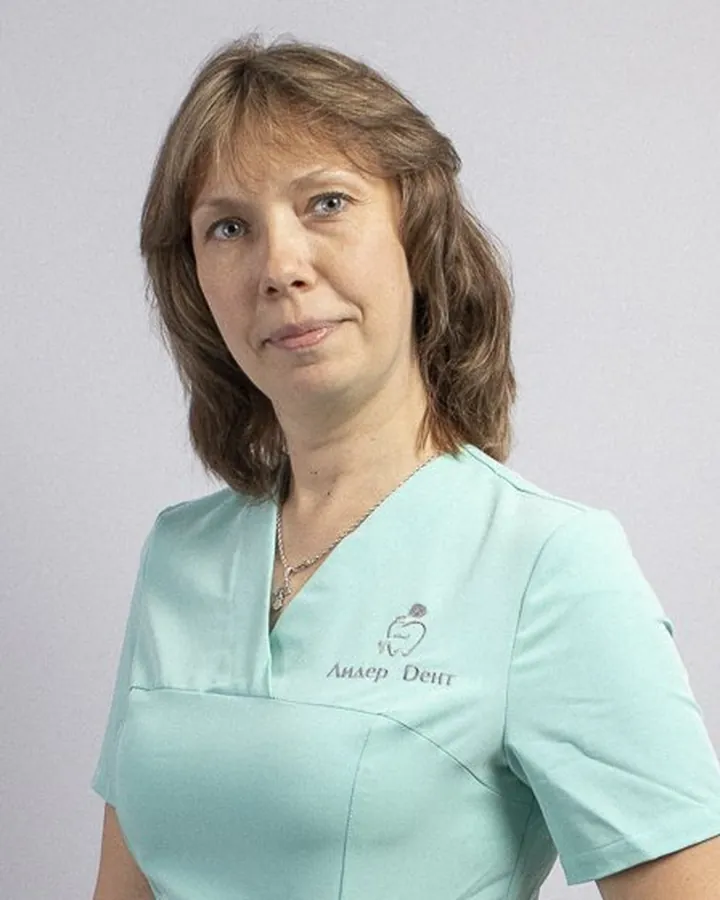
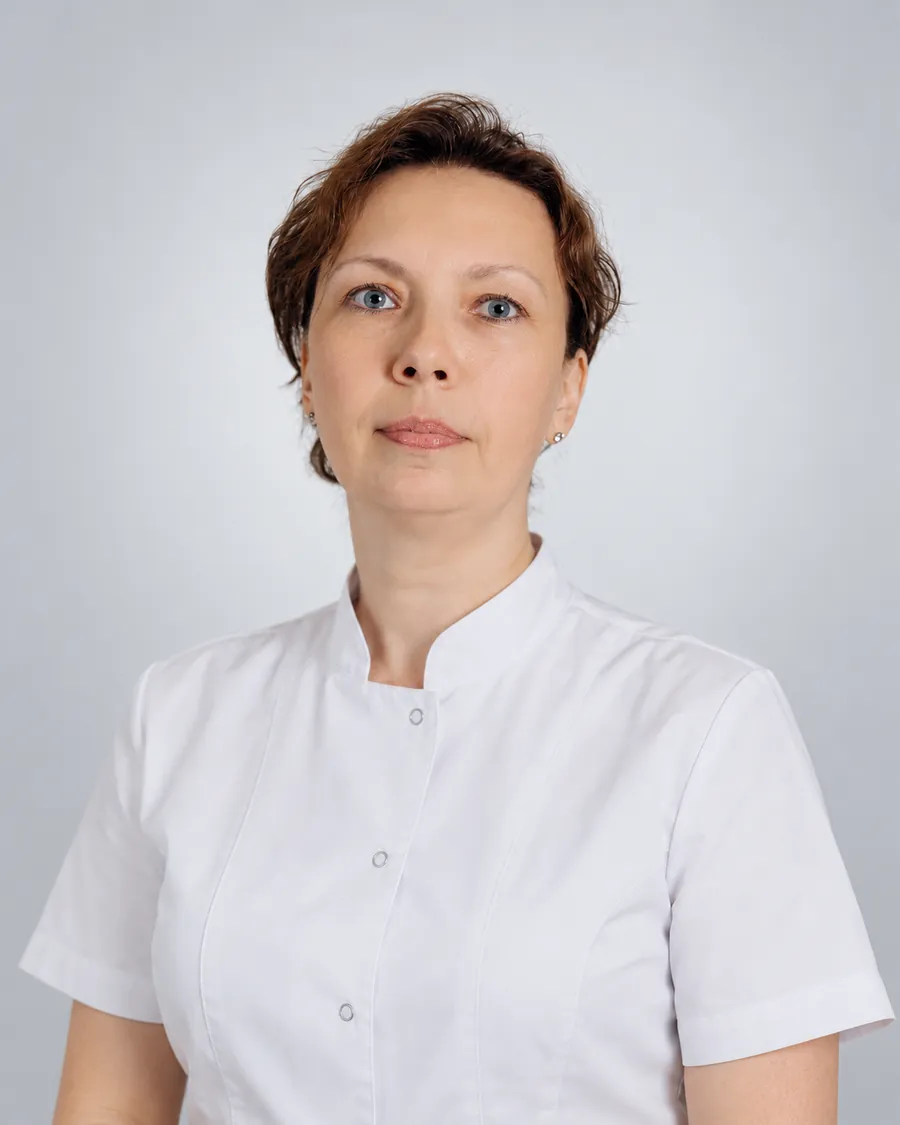
Портреты 11 врачей в едином стиле и новые картинки услуг и акций
Портреты сгенерированы по подписанным фото каждого врача, одна форма, фон и свет. Картинки услуг и акций одной серией в палитре клиники, без людей и текста.

Claude-Session: https://claude.ai/code/session_01Y1MJ4yZtmENiqHD37gWDYR

diff --git a/index.html b/index.html
@@ -89,7 +89,7 @@ window.umLogo=function(i){var f=i.getAttribute("data-fb");if(f){i.removeAttribut
 <section class="slogan on-dark" aria-label="Улыбка, которая всегда впереди.">
   <div class="marquee" aria-hidden="true"><div class="marquee__track"><span class="marquee__item">Улыбка, которая всегда впереди. <em>Улыбка, которая всегда впереди.</em></span><span class="marquee__item">Улыбка, которая всегда впереди. <em>Улыбка, которая всегда впереди.</em></span><span class="marquee__item">Улыбка, которая всегда впереди. <em>Улыбка, которая всегда впереди.</em></span><span class="marquee__item">Улыбка, которая всегда впереди. <em>Улыбка, которая всегда впереди.</em></span></div></div>
   <div class="slogan__head" aria-hidden="true"><p class="slogan__title"><span class="line">Улыбка, которая всегда впереди.</span></p></div>
-  <div class="slogan__more"><div class="wrap"><p class="au-slogan-sub">С 2018 года нам доверились больше 12 000 пациентов. Два филиала и 11 врачей в Ставрополе.</p><ul class="hero__trio" aria-label="Врачи клиники"><li><a href="#team" aria-label="Имплантолог: Кямран Гаджиев"><span class="hero__face" data-ph><span class="doc__initials" aria-hidden="true">КГ</span><img src="images/doctors/gadzhiev.webp" alt="Кямран Гаджиев" loading="lazy" decoding="async" onerror="umImg(this)" width="900" height="1125"></span><b>Имплантолог</b><span>Кямран<br>Гаджиев</span></a></li><li><a href="#team" aria-label="Ортопед: Даниил Руднев"><span class="hero__face" data-ph><span class="doc__initials" aria-hidden="true">ДР</span><img src="images/doctors/rudnev.webp" alt="Даниил Руднев" loading="lazy" decoding="async" onerror="umImg(this)" width="800" height="1000"></span><b>Ортопед</b><span>Даниил<br>Руднев</span></a></li><li><a href="#team" aria-label="Ортодонт: Наталья Никонова"><span class="hero__face" data-ph><span class="doc__initials" aria-hidden="true">НН</span><img src="images/doctors/nikonova.webp" alt="Наталья Никонова" loading="lazy" decoding="async" onerror="umImg(this)" width="720" height="900"></span><b>Ортодонт</b><span>Наталья<br>Никонова</span></a></li><li><a href="#team" aria-label="Терапевт, хирург: Мухамедали Колдасов"><span class="hero__face" data-ph><span class="doc__initials" aria-hidden="true">МК</span><img src="images/doctors/koldasov.webp" alt="Мухамедали Колдасов" loading="lazy" decoding="async" onerror="umImg(this)" width="900" height="1125"></span><b>Терапевт, хирург</b><span>Мухамедали<br>Колдасов</span></a></li></ul></div></div>
+  <div class="slogan__more"><div class="wrap"><p class="au-slogan-sub">С 2018 года нам доверились больше 12 000 пациентов. Два филиала и 11 врачей в Ставрополе.</p><ul class="hero__trio" aria-label="Врачи клиники"><li><a href="#team" aria-label="Имплантолог: Кямран Гаджиев"><span class="hero__face" data-ph><span class="doc__initials" aria-hidden="true">КГ</span><img src="images/doctors/gadzhiev.webp" alt="Кямран Гаджиев" loading="lazy" decoding="async" onerror="umImg(this)" width="900" height="1125"></span><b>Имплантолог</b><span>Кямран<br>Гаджиев</span></a></li><li><a href="#team" aria-label="Ортопед: Даниил Руднев"><span class="hero__face" data-ph><span class="doc__initials" aria-hidden="true">ДР</span><img src="images/doctors/rudnev.webp" alt="Даниил Руднев" loading="lazy" decoding="async" onerror="umImg(this)" width="900" height="1125"></span><b>Ортопед</b><span>Даниил<br>Руднев</span></a></li><li><a href="#team" aria-label="Ортодонт: Наталья Никонова"><span class="hero__face" data-ph><span class="doc__initials" aria-hidden="true">НН</span><img src="images/doctors/nikonova.webp" alt="Наталья Никонова" loading="lazy" decoding="async" onerror="umImg(this)" width="900" height="1125"></span><b>Ортодонт</b><span>Наталья<br>Никонова</span></a></li><li><a href="#team" aria-label="Терапевт, хирург: Мухамедали Колдасов"><span class="hero__face" data-ph><span class="doc__initials" aria-hidden="true">МК</span><img src="images/doctors/koldasov.webp" alt="Мухамедали Колдасов" loading="lazy" decoding="async" onerror="umImg(this)" width="900" height="1125"></span><b>Терапевт, хирург</b><span>Мухамедали<br>Колдасов</span></a></li></ul></div></div>
 </section>
 </div>
 
@@ -131,7 +131,7 @@ window.umLogo=function(i){var f=i.getAttribute("data-fb");if(f){i.removeAttribut
   <div class="svl__head"><div class="wrap"><h2 id="sv-title" data-split>Услуги</h2><span class="svl__links"><a class="link" href="#contacts" data-modal="book">Записаться</a></span></div></div>
   <div class="svl__top"><div class="wrap"><div class="svl-grid" data-svl>
     <a class="svl-card" href="#contacts" data-modal="book" style="--delay:0.0s">
-      <img src="images/uslugi/implantaciya.webp" alt="" loading="lazy" decoding="async" onerror="umImg(this)" width="1050" height="1400" srcset="images/uslugi/implantaciya-m.webp 675w, images/uslugi/implantaciya.webp 1050w" sizes="(max-width: 760px) 60vw, 100vw" class="svl-card__img" style="object-position:50% 30%">
+      <img src="images/uslugi/implantaciya.webp" alt="" loading="lazy" decoding="async" onerror="umImg(this)" width="1600" height="900" srcset="images/uslugi/implantaciya-m.webp 900w, images/uslugi/implantaciya.webp 1600w" sizes="(max-width: 760px) 60vw, 100vw" class="svl-card__img" style="object-position:50% 62%">
       <span class="svl-card__in"><span class="svl-card__top"><span class="svl-go" aria-hidden="true"><svg viewBox="0 0 60 60"><path d="M24 36 36 24M27 24h9v9"/></svg></span></span><h3 class="svl-card__title">Имплантация и «Всё на 4»</h3></span>
     </a>
     <a class="svl-card" href="#contacts" data-modal="book" style="--delay:0.3s">
@@ -173,7 +173,7 @@ window.umLogo=function(i){var f=i.getAttribute("data-fb");if(f){i.removeAttribut
       <a class="btn btn--lg" href="#contacts" data-modal="book" data-promo="бесплатный осмотр">Записаться бесплатно</a>
     </div>
   </article><article class="pr4-card" style="--i:1">
-    <span class="pr4-card__pic"><img src="images/gen/akcii-implant.webp" alt="Имплант с циркониевой коронкой" loading="lazy" decoding="async" onerror="umImg(this)" width="1400" height="1050" srcset="images/gen/akcii-implant-m.webp 900w, images/gen/akcii-implant.webp 1400w" sizes="(max-width: 760px) 60vw, 44vw"></span>
+    <span class="pr4-card__pic"><img src="images/gen/akcii-implant.webp" alt="Имплант с коронкой и снимок КТ" loading="lazy" decoding="async" onerror="umImg(this)" width="1400" height="1050" srcset="images/gen/akcii-implant-m.webp 900w, images/gen/akcii-implant.webp 1400w" sizes="(max-width: 760px) 60vw, 44vw"></span>
     <div class="pr4-card__text">
       <span class="label pr-tag">Имплантация</span>
       <h3 class="pr-title">Имплант под ключ</h3>
@@ -193,7 +193,7 @@ window.umLogo=function(i){var f=i.getAttribute("data-fb");if(f){i.removeAttribut
       <a class="btn btn--lg" href="#contacts" data-modal="book" data-promo="всё на 4">Узнать подробнее</a>
     </div>
   </article><article class="pr4-card" style="--i:3">
-    <span class="pr4-card__pic"><img src="images/gen/akcii-combo.webp" alt="Набор для профессиональной чистки зубов" loading="lazy" decoding="async" onerror="umImg(this)" width="1024" height="1536"></span>
+    <span class="pr4-card__pic"><img src="images/gen/akcii-combo.webp" alt="Зеркало, наконечник и снимок КТ на столе врача" loading="lazy" decoding="async" onerror="umImg(this)" width="1400" height="1050" srcset="images/gen/akcii-combo-m.webp 900w, images/gen/akcii-combo.webp 1400w" sizes="(max-width: 760px) 60vw, 50vw"></span>
     <div class="pr4-card__text">
       <span class="label pr-tag">Комплекс</span>
       <h3 class="pr-title">Супер-Комбо</h3>
@@ -218,7 +218,7 @@ window.umLogo=function(i){var f=i.getAttribute("data-fb");if(f){i.removeAttribut
   <p class="doc__focus">Имплантация и «Всё на 4», удаление зубов мудрости, синус-лифтинг</p>
   <a class="btn btn--ghost btn--sm doc__cta" href="#contacts" data-modal="book" data-doctor="gadzhiev">Записаться к врачу</a>
 </article><article class="doc" data-tags="protezirovanie" data-col="r">
-  <div class="doc__photo" data-ph><span class="doc__initials" aria-hidden="true">ДР</span><img src="images/doctors/rudnev.webp" alt="Руднев Даниил Сергеевич" loading="lazy" decoding="async" onerror="umImg(this)" width="800" height="1000" sizes="auto, (max-width: 760px) 80vw, 30vw">
+  <div class="doc__photo" data-ph><span class="doc__initials" aria-hidden="true">ДР</span><img src="images/doctors/rudnev.webp" alt="Руднев Даниил Сергеевич" loading="lazy" decoding="async" onerror="umImg(this)" width="900" height="1125" sizes="auto, (max-width: 760px) 80vw, 30vw">
     <a class="doc__cover" href="#contacts" data-modal="book" data-doctor="rudnev" tabindex="-1" aria-hidden="true"></a>
     <a class="doc__go" href="#contacts" data-modal="book" data-doctor="rudnev" aria-label="Записаться: Даниил Руднев"><svg viewBox="0 0 60 60"><path d="M24 36 36 24M27 24h9v9"/></svg></a></div>
   <h3><a href="#contacts" data-modal="book" data-doctor="rudnev">Руднев Даниил Сергеевич</a></h3>
@@ -226,7 +226,7 @@ window.umLogo=function(i){var f=i.getAttribute("data-fb");if(f){i.removeAttribut
   <p class="doc__focus">Коронки, протезы, протезирование на имплантах</p>
   <a class="btn btn--ghost btn--sm doc__cta" href="#contacts" data-modal="book" data-doctor="rudnev">Записаться к врачу</a>
 </article><article class="doc" data-tags="ortodontiya" data-col="l">
-  <div class="doc__photo" data-ph><span class="doc__initials" aria-hidden="true">НН</span><img src="images/doctors/nikonova.webp" alt="Никонова Наталья Николаевна" loading="lazy" decoding="async" onerror="umImg(this)" width="720" height="900" sizes="auto, (max-width: 760px) 80vw, 30vw">
+  <div class="doc__photo" data-ph><span class="doc__initials" aria-hidden="true">НН</span><img src="images/doctors/nikonova.webp" alt="Никонова Наталья Николаевна" loading="lazy" decoding="async" onerror="umImg(this)" width="900" height="1125" sizes="auto, (max-width: 760px) 80vw, 30vw">
     <a class="doc__cover" href="#contacts" data-modal="book" data-doctor="nikonova" tabindex="-1" aria-hidden="true"></a>
     <a class="doc__go" href="#contacts" data-modal="book" data-doctor="nikonova" aria-label="Записаться: Наталья Никонова"><svg viewBox="0 0 60 60"><path d="M24 36 36 24M27 24h9v9"/></svg></a></div>
   <h3><a href="#contacts" data-modal="book" data-doctor="nikonova">Никонова Наталья Николаевна</a></h3>
@@ -258,7 +258,7 @@ window.umLogo=function(i){var f=i.getAttribute("data-fb");if(f){i.removeAttribut
   <p class="doc__focus">Коронки и протезы, лечение кариеса и каналов</p>
   <a class="btn btn--ghost btn--sm doc__cta" href="#contacts" data-modal="book" data-doctor="homutov">Записаться к врачу</a>
 </article><article class="doc" data-tags="lechenie-zubov" data-col="l">
-  <div class="doc__photo" data-ph><span class="doc__initials" aria-hidden="true">ЕШ</span><img src="images/doctors/shamarin.webp" alt="Шамарин Егор Николаевич" loading="lazy" decoding="async" onerror="umImg(this)" width="720" height="900" sizes="auto, (max-width: 760px) 80vw, 30vw">
+  <div class="doc__photo" data-ph><span class="doc__initials" aria-hidden="true">ЕШ</span><img src="images/doctors/shamarin.webp" alt="Шамарин Егор Николаевич" loading="lazy" decoding="async" onerror="umImg(this)" width="900" height="1125" sizes="auto, (max-width: 760px) 80vw, 30vw">
     <a class="doc__cover" href="#contacts" data-modal="book" data-doctor="shamarin" tabindex="-1" aria-hidden="true"></a>
     <a class="doc__go" href="#contacts" data-modal="book" data-doctor="shamarin" aria-label="Записаться: Егор Шамарин"><svg viewBox="0 0 60 60"><path d="M24 36 36 24M27 24h9v9"/></svg></a></div>
   <h3><a href="#contacts" data-modal="book" data-doctor="shamarin">Шамарин Егор Николаевич</a></h3>
@@ -266,7 +266,7 @@ window.umLogo=function(i){var f=i.getAttribute("data-fb");if(f){i.removeAttribut
   <p class="doc__focus">Лечение кариеса и пульпита, реставрация зубов</p>
   <a class="btn btn--ghost btn--sm doc__cta" href="#contacts" data-modal="book" data-doctor="shamarin">Записаться к врачу</a>
 </article><article class="doc" data-tags="lechenie-zubov" data-col="r">
-  <div class="doc__photo" data-ph><span class="doc__initials" aria-hidden="true">ДХ</span><img src="images/doctors/husejnova.webp" alt="Хусейнова Диана Султановна" loading="lazy" decoding="async" onerror="umImg(this)" width="886" height="1107" sizes="auto, (max-width: 760px) 80vw, 30vw">
+  <div class="doc__photo" data-ph><span class="doc__initials" aria-hidden="true">ДХ</span><img src="images/doctors/husejnova.webp" alt="Хусейнова Диана Султановна" loading="lazy" decoding="async" onerror="umImg(this)" width="900" height="1125" sizes="auto, (max-width: 760px) 80vw, 30vw">
     <a class="doc__cover" href="#contacts" data-modal="book" data-doctor="husejnova" tabindex="-1" aria-hidden="true"></a>
     <a class="doc__go" href="#contacts" data-modal="book" data-doctor="husejnova" aria-label="Записаться: Диана Хусейнова"><svg viewBox="0 0 60 60"><path d="M24 36 36 24M27 24h9v9"/></svg></a></div>
   <h3><a href="#contacts" data-modal="book" data-doctor="husejnova">Хусейнова Диана Султановна</a></h3>
@@ -274,7 +274,7 @@ window.umLogo=function(i){var f=i.getAttribute("data-fb");if(f){i.removeAttribut
   <p class="doc__focus">Лечение кариеса и каналов, эстетическая реставрация</p>
   <a class="btn btn--ghost btn--sm doc__cta" href="#contacts" data-modal="book" data-doctor="husejnova">Записаться к врачу</a>
 </article><article class="doc" data-tags="lechenie-zubov" data-col="l">
-  <div class="doc__photo" data-ph><span class="doc__initials" aria-hidden="true">КМ</span><img src="images/doctors/melkumova.webp" alt="Мелкумова Кристина Михайловна" loading="lazy" decoding="async" onerror="umImg(this)" width="800" height="1000" sizes="auto, (max-width: 760px) 80vw, 30vw">
+  <div class="doc__photo" data-ph><span class="doc__initials" aria-hidden="true">КМ</span><img src="images/doctors/melkumova.webp" alt="Мелкумова Кристина Михайловна" loading="lazy" decoding="async" onerror="umImg(this)" width="900" height="1125" sizes="auto, (max-width: 760px) 80vw, 30vw">
     <a class="doc__cover" href="#contacts" data-modal="book" data-doctor="melkumova" tabindex="-1" aria-hidden="true"></a>
     <a class="doc__go" href="#contacts" data-modal="book" data-doctor="melkumova" aria-label="Записаться: Кристина Мелкумова"><svg viewBox="0 0 60 60"><path d="M24 36 36 24M27 24h9v9"/></svg></a></div>
   <h3><a href="#contacts" data-modal="book" data-doctor="melkumova">Мелкумова Кристина Михайловна</a></h3>
@@ -492,7 +492,7 @@ window.umLogo=function(i){var f=i.getAttribute("data-fb");if(f){i.removeAttribut
 <div class="modal modal--offer" id="m-offer" role="dialog" aria-modal="true" aria-labelledby="m-offer-t" hidden><div class="modal__box invite" data-lenis-prevent>
   <div class="invite__team">
     <p class="invite__cap">Врачи клиники</p>
-    <ul class="invite__docs"><li><span class="invite__pic" data-ph><span class="doc__initials" aria-hidden="true">КГ</span><img src="images/doctors/gadzhiev.webp" alt="Кямран Гаджиев" loading="lazy" decoding="async" onerror="umImg(this)" width="900" height="1125"></span><b>Имплантолог</b><span>Кямран<br>Гаджиев</span></li><li><span class="invite__pic" data-ph><span class="doc__initials" aria-hidden="true">ДР</span><img src="images/doctors/rudnev.webp" alt="Даниил Руднев" loading="lazy" decoding="async" onerror="umImg(this)" width="800" height="1000"></span><b>Ортопед</b><span>Даниил<br>Руднев</span></li><li><span class="invite__pic" data-ph><span class="doc__initials" aria-hidden="true">НН</span><img src="images/doctors/nikonova.webp" alt="Наталья Никонова" loading="lazy" decoding="async" onerror="umImg(this)" width="720" height="900"></span><b>Ортодонт</b><span>Наталья<br>Никонова</span></li><li><span class="invite__pic" data-ph><span class="doc__initials" aria-hidden="true">МК</span><img src="images/doctors/koldasov.webp" alt="Мухамедали Колдасов" loading="lazy" decoding="async" onerror="umImg(this)" width="900" height="1125"></span><b>Терапевт, хирург</b><span>Мухамедали<br>Колдасов</span></li></ul>
+    <ul class="invite__docs"><li><span class="invite__pic" data-ph><span class="doc__initials" aria-hidden="true">КГ</span><img src="images/doctors/gadzhiev.webp" alt="Кямран Гаджиев" loading="lazy" decoding="async" onerror="umImg(this)" width="900" height="1125"></span><b>Имплантолог</b><span>Кямран<br>Гаджиев</span></li><li><span class="invite__pic" data-ph><span class="doc__initials" aria-hidden="true">ДР</span><img src="images/doctors/rudnev.webp" alt="Даниил Руднев" loading="lazy" decoding="async" onerror="umImg(this)" width="900" height="1125"></span><b>Ортопед</b><span>Даниил<br>Руднев</span></li><li><span class="invite__pic" data-ph><span class="doc__initials" aria-hidden="true">НН</span><img src="images/doctors/nikonova.webp" alt="Наталья Никонова" loading="lazy" decoding="async" onerror="umImg(this)" width="900" height="1125"></span><b>Ортодонт</b><span>Наталья<br>Никонова</span></li><li><span class="invite__pic" data-ph><span class="doc__initials" aria-hidden="true">МК</span><img src="images/doctors/koldasov.webp" alt="Мухамедали Колдасов" loading="lazy" decoding="async" onerror="umImg(this)" width="900" height="1125"></span><b>Терапевт, хирург</b><span>Мухамедали<br>Колдасов</span></li></ul>
   </div>
   <div class="invite__body">
     <button class="invite__x" type="button" data-close>Закрыть <svg viewBox="0 0 24 24" aria-hidden="true"><path d="M18.3 5.7 12 12l6.3 6.3-1.4 1.4L10.6 13.4 4.3 19.7l-1.4-1.4L9.2 12 2.9 5.7l1.4-1.4 6.3 6.3 6.3-6.3z"/></svg></button>

diff --git a/src/build.py b/src/build.py
@@ -322,7 +322,7 @@ block('<section class="foil on-dark"', '</section>', FOIL)
 
 # ---------- УСЛУГИ ----------
 SV = [
-    ('implantaciya', 'Имплантация и «Всё на 4»', '50% 30%'),
+    ('implantaciya', 'Имплантация и «Всё на 4»', '50% 62%'),
     ('lechenie-zubov', 'Лечение зубов и лазер', ''),
     ('ortodontiya', 'Брекеты и элайнеры', ''),
     ('protezirovanie', 'Коронки и протезы', ''),
@@ -350,9 +350,9 @@ block('<section class="section section--sage svs"', '</section>', SERV)
 # Условия из раздела «Акции» lider-dent26.ru, без сумм (правило: на сайте нет цен)
 PR = [
     (P['exam'][0], P['exam'][1], 'Бесплатно', 'Осмотр и консультация', 'Бесплатно', 'Врач осмотрит, ответит на вопросы и подскажет, с чего начать лечение', 'Записаться бесплатно', 'бесплатный осмотр'),
-    ('images/gen/akcii-implant.webp', 'Имплант с циркониевой коронкой', 'Имплантация', 'Имплант под ключ', 'КТ включена', 'Установка импланта под ключ вместе с компьютерной томографией. Рассрочка до 12 месяцев', 'Записаться на консультацию', 'имплант под ключ'),
+    ('images/gen/akcii-implant.webp', 'Имплант с коронкой и снимок КТ', 'Имплантация', 'Имплант под ключ', 'КТ включена', 'Установка импланта под ключ вместе с компьютерной томографией. Рассрочка до 12 месяцев', 'Записаться на консультацию', 'имплант под ключ'),
     ('images/gen/akcii-allon4.webp', 'Протез челюсти на четырёх имплантах', 'Все зубы', '«Всё на 4»', 'Зубы за день', 'Несъёмный протез всей челюсти на четырёх имплантах. Рассрочка до 12 месяцев', 'Узнать подробнее', 'всё на 4'),
-    ('images/gen/akcii-combo.webp', 'Набор для профессиональной чистки зубов', 'Комплекс', 'Супер-Комбо', 'Четыре в одном', 'Консультация, чистка зубов с лазерным фторированием, КТ и лечение одного кариеса', 'Записаться', 'супер-комбо'),
+    ('images/gen/akcii-combo.webp', 'Зеркало, наконечник и снимок КТ на столе врача', 'Комплекс', 'Супер-Комбо', 'Четыре в одном', 'Консультация, чистка зубов с лазерным фторированием, КТ и лечение одного кариеса', 'Записаться', 'супер-комбо'),
 ]
 # Что входит в предложение: пациент видит, за что платит
 INCL = [
